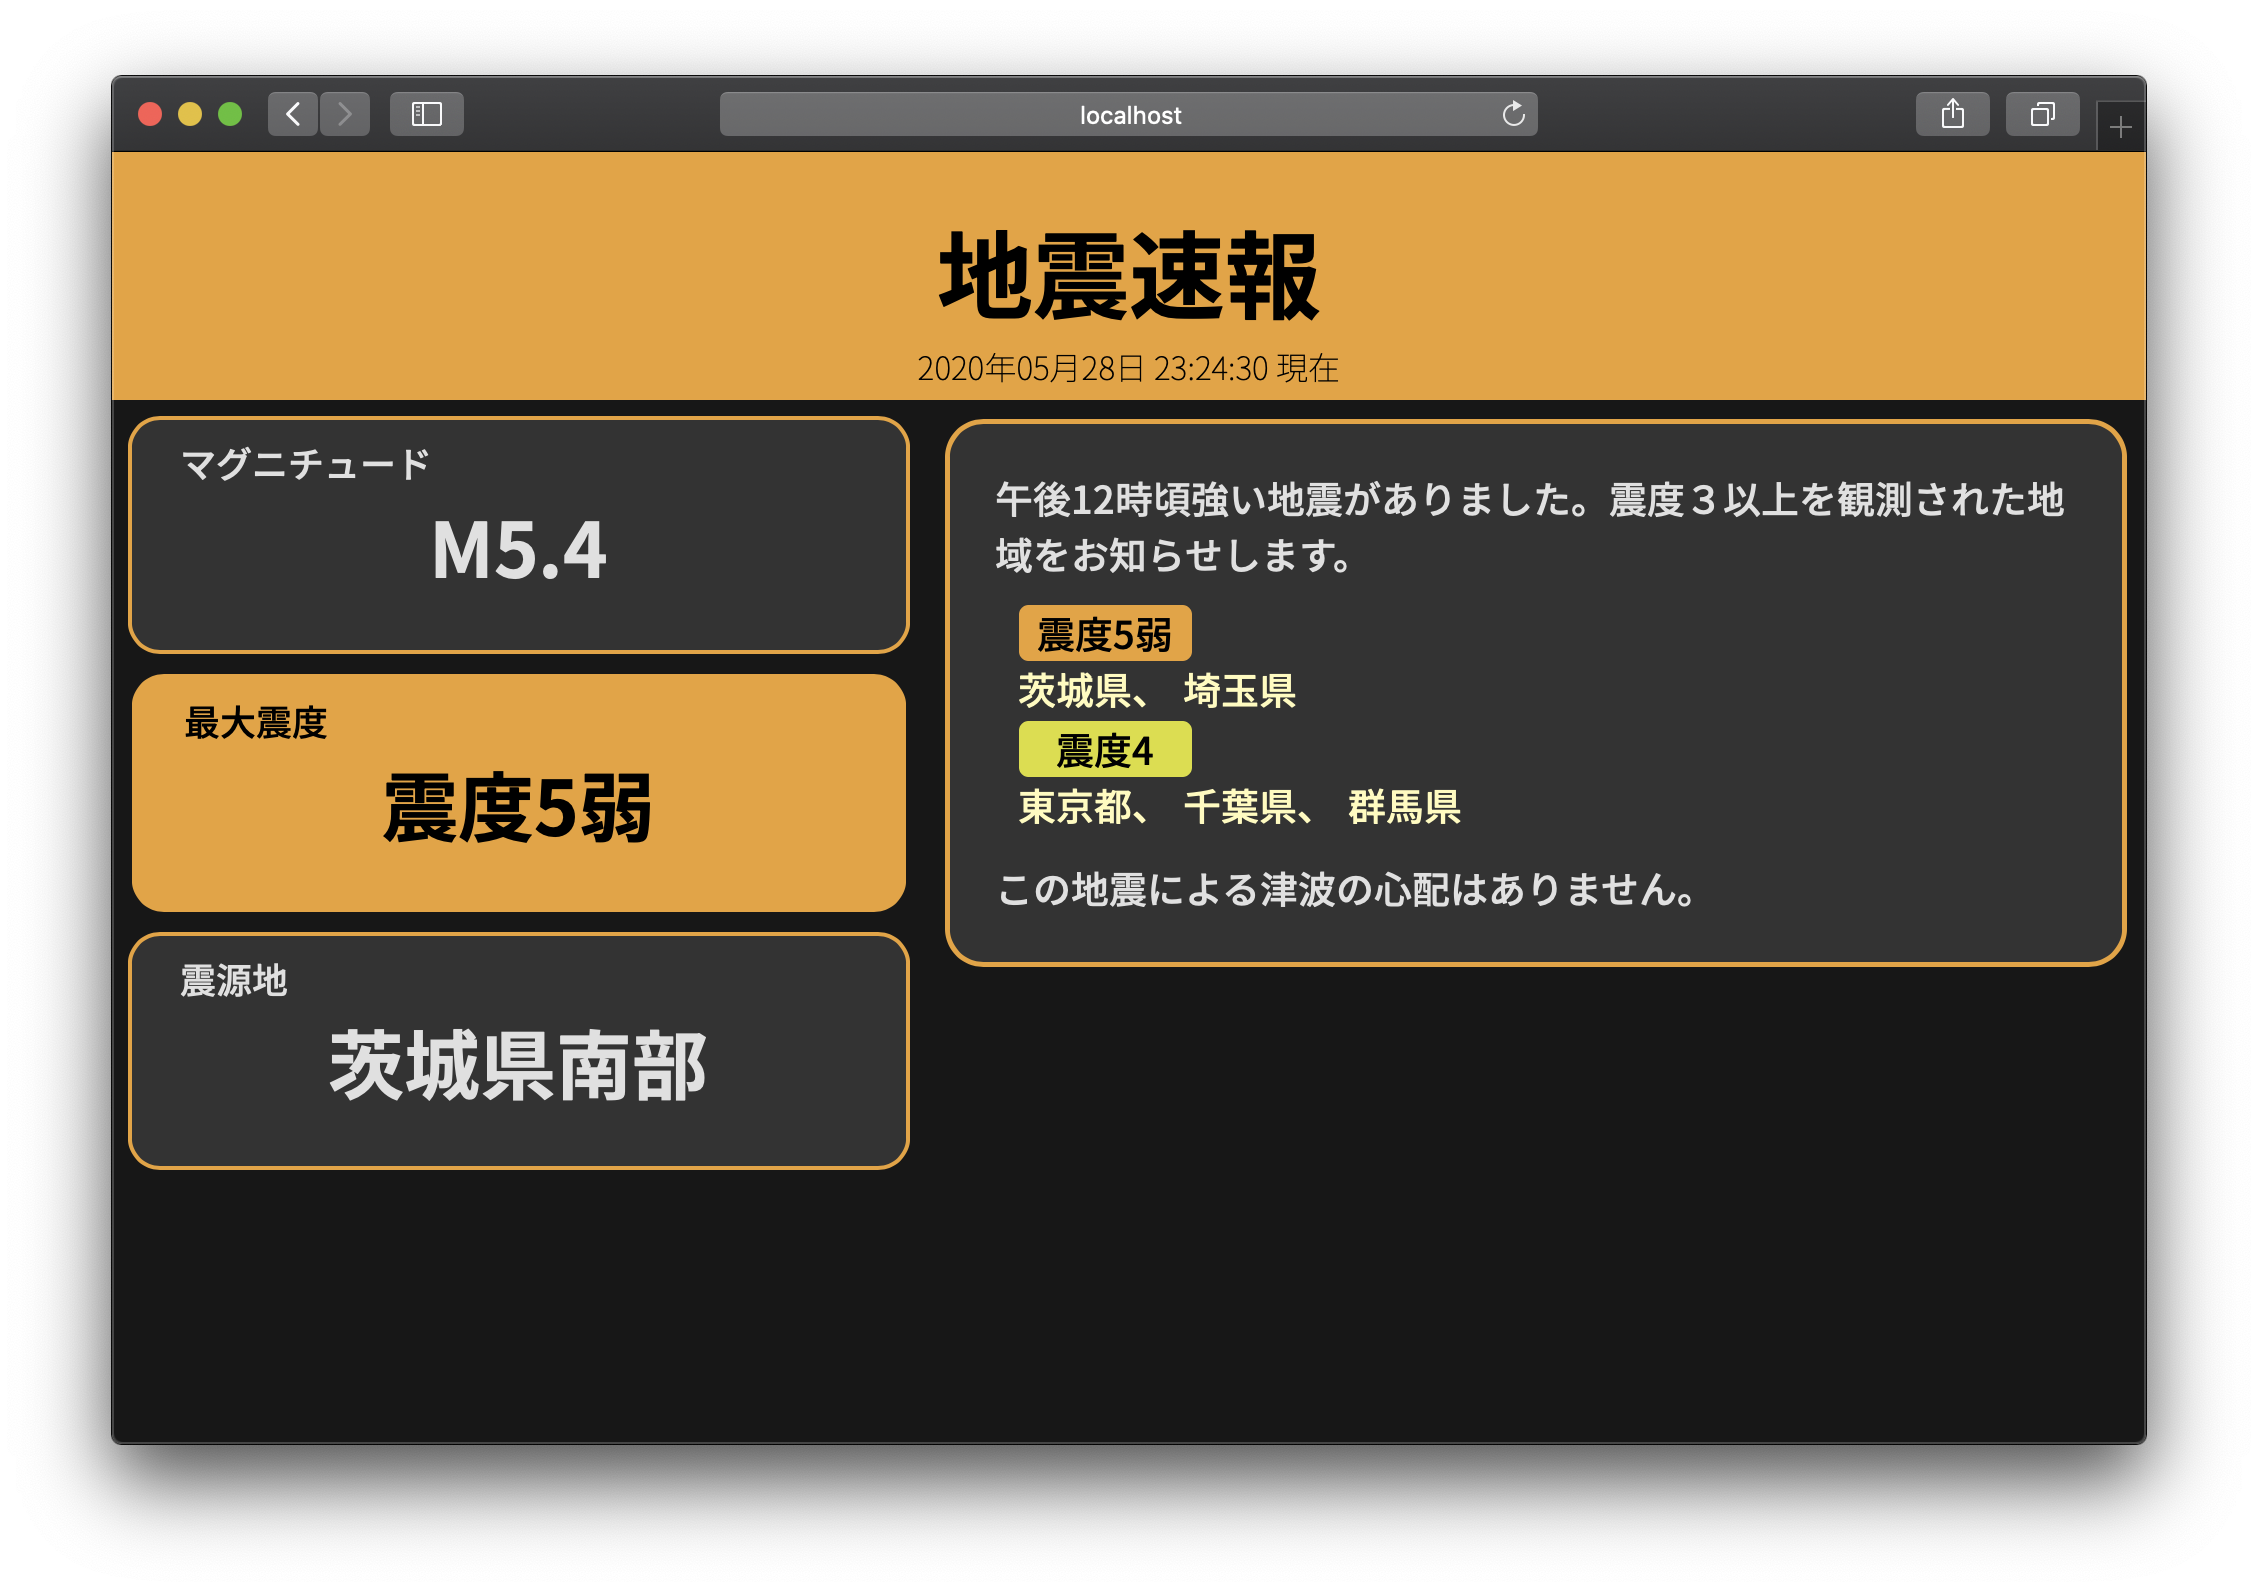
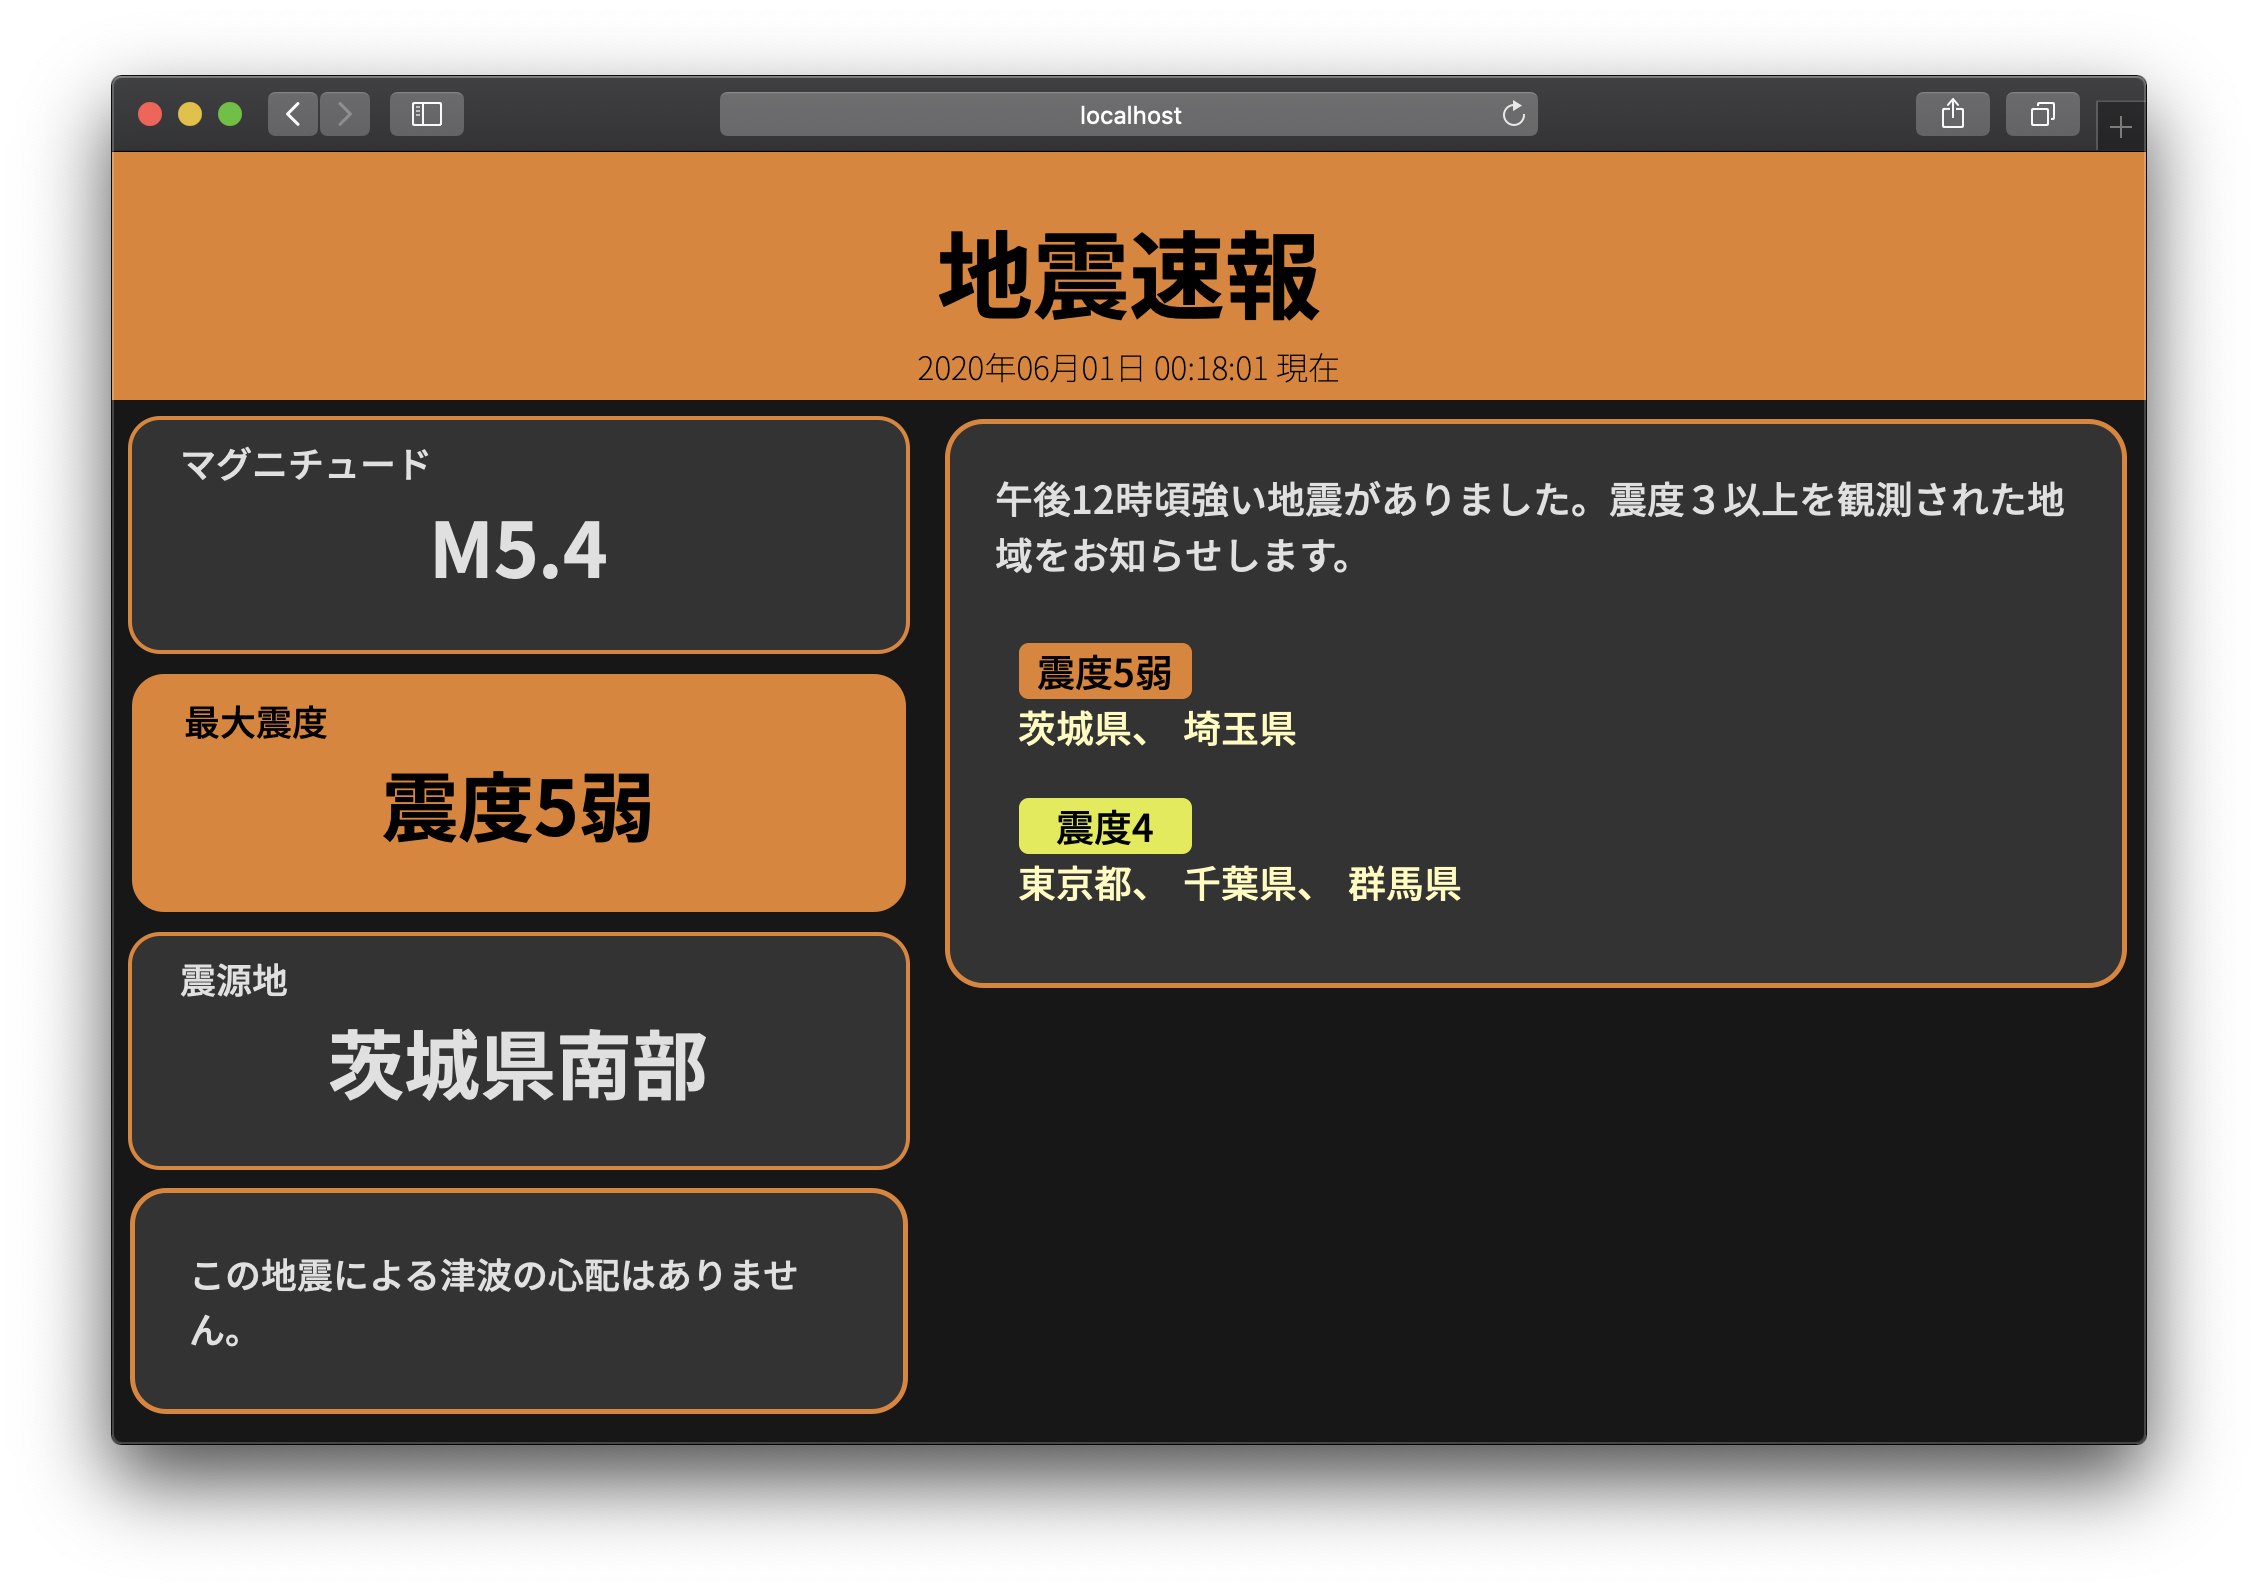
change color

Changed region(s): [[0.031, 0.0923, 0.961, 0.277], [0.031, 0.3693, 0.961, 0.6464], [0.031, 0.7079, 0.403, 0.8926]]

diff --git a/src/static/css/style.css b/src/static/css/style.css
@@ -128,47 +128,47 @@ header {
   */
 
 .fill.class-0, .震度0, .震度０ {
-    background-color: #e1e2e3;
+    background-color: #d9d9d9;
     color: black;
 }
 
 .fill.class-1, .震度1, .震度１ {
-    background-color: #56a0d1;
-    color: black;
-}
-
-.fill.class-2, .震度2, .震度２ {
-    background-color: #204eba;
+    background-color: #2d1fcc;
     color: #e0e0e0;
 }
 
+.fill.class-2, .震度2, .震度２ {
+    background-color: #3b93db;
+    color: black;
+}
+
 .fill.class-3, .震度3, .震度３ {
-    background-color: #d6e673;
+    background-color: #67e071;
 }
 
 .fill.class-4, .震度4, .震度４ {
-    background-color: #dbde28;
+    background-color: #e2eb38;
 }
 
 .fill.class-5, .震度5弱, .震度５弱 {
-    background-color: #eba22d;
+    background-color: #e38227;
 }
 
 .fill.class-55, .震度5強, .震度５強 {
-    background-color: #eba22d;
+    background-color: #e38227;
 }
 .fill.class-6, .震度6弱, .震度６弱 {
-    background-color: #e62929;
+    background-color: #e81c2d;
     color: #e0e0e0;
 }
 
 .fill.class-66, .震度6強, .震度６強 {
-    background-color: #e62929;
+    background-color: #e81c2d;
     color: #e0e0e0;
 }
 
 .fill.class-7, .震度7, .震度７ {
-    background-color: #a81d5b;
+    background-color: #db1d95;
     color: #e0e0e0;
 }
 
@@ -182,42 +182,42 @@ header {
 */
 
 div.class-0 {
-    border: solid 0.15em #e1e2e3;
+    border: solid 0.15em #d9d9d9;
 }
 
 div.class-1 {
-   border: solid 0.15em #56a0d1;
+   border: solid 0.15em #2d1fcc;
 }
 
 div.class-2 {
-   border: solid 0.15em #204eba;
+   border: solid 0.15em #3b93db;
 }
 
 div.class-3 {
-   border: solid 0.15em #d6e673;
+   border: solid 0.15em #67e071;
 }
 
 div.class-4 {
-   border: solid 0.15em #dbde28;
+   border: solid 0.15em #e2eb38;
 }
 
 div.class-5 {
-   border: solid 0.15em #eba22d;
+   border: solid 0.15em #e38227;
 }
 
 div.class-55 {
-   border: solid 0.15em #eba22d;
+   border: solid 0.15em #e38227;
 }
 div.class-6 {
-   border: solid 0.15em #e62929;
+   border: solid 0.15em #e81c2d;
 }
 
 div.class-66 {
-   border: solid 0.15em #e62929;
+   border: solid 0.15em #e81c2d;
 }
 
 div.class-7 {
-   border: solid 0.15em #a81d5b;
+   border: solid 0.15em #db1d95;
 }
 
 div.none {

diff --git a/README.md b/README.md
@@ -9,7 +9,7 @@
 
 ## tl;dr
 
-- URLクエリパラメータに入力した内容にテンプレートを適用させます。
+- URLクエリパラメーターに、入力した内容にテンプレートを適用させます。
 - Seleniumなどで画面キャプチャをすると簡単に画像として保存できます。
 
 ## 💻使い方
@@ -37,7 +37,7 @@
 
 デフォルトURL: `http://localhost:5000/template`
 
-### 📒クエリパラメータの説明
+### 📒クエリパラメーターの説明
 
 例: `http://localhost:5000/template?ti=震源・震度に関する情報&areas={'震度４': ['松島市'],'震度３':['一関市', '仙台宮城野区', '若林区', '仙台泉区', '石巻市', '白石市', '名取市', '角田市', '岩沼市', '登米市']}&exp=['１８日１２時００分ころ、地震がありました。', 'この地震による津波の心配はありません。']&max_si=4&epi=宮城県沖&mag=5.2`
 
@@ -71,8 +71,8 @@
 
 - `exp`
   - 説明。2つ以上必要です。
-  - 最初の１つ目は右のトップに表示されます。
-  - 2個目以上は左側に要素別にBoxで表示されます。
+  - 最初の1つ目は右のトップに表示されます。
+  - 2個目以上は左側に、要素別にBoxで表示されます。
 
     ```json
     [
@@ -96,16 +96,16 @@
 
 | 震度  |                                    色                                     |
 | :---: | :-----------------------------------------------------------------------: |
-|   0   | ![#e1e2e3](https://via.placeholder.com/15/e1e2e3/000000?text=+) `#e1e2e3` |
-|   1   | ![#56a0d1](https://via.placeholder.com/15/56a0d1/000000?text=+) `#56a0d1` |
-|   2   | ![#204eba](https://via.placeholder.com/15/204eba/000000?text=+) `#204eba` |
-|   3   | ![#d6e673](https://via.placeholder.com/15/d6e673/000000?text=+) `#d6e673` |
-|   4   | ![#dbde28](https://via.placeholder.com/15/dbde28/000000?text=+) `#dbde28` |
-|  5-   | ![#eba22d](https://via.placeholder.com/15/eba22d/000000?text=+) `#eba22d` |
-|  5+   | ![#eba22d](https://via.placeholder.com/15/eba22d/000000?text=+) `#eba22d` |
-|  6-   | ![#e62929](https://via.placeholder.com/15/e62929/000000?text=+) `#e62929` |
-|  6+   | ![#e62929](https://via.placeholder.com/15/e62929/000000?text=+) `#e62929` |
-|   7   | ![#a81d5b](https://via.placeholder.com/15/a81d5b/000000?text=+) `#a81d5b` |
+|   0   | ![#e1e2e3](https://via.placeholder.com/15/d9d9d9/000000?text=+) `#d9d9d9` |
+|   1   | ![#56a0d1](https://via.placeholder.com/15/2d1fcc/000000?text=+) `#2d1fcc` |
+|   2   | ![#204eba](https://via.placeholder.com/15/3b93db/000000?text=+) `#3b93db` |
+|   3   | ![#d6e673](https://via.placeholder.com/15/67e071/000000?text=+) `#67e071` |
+|   4   | ![#dbde28](https://via.placeholder.com/15/e2eb38/000000?text=+) `#e2eb38` |
+|  5-   | ![#eba22d](https://via.placeholder.com/15/e38227/000000?text=+) `#e38227` |
+|  5+   | ![#eba22d](https://via.placeholder.com/15/e38227/000000?text=+) `#e38227` |
+|  6-   | ![#e62929](https://via.placeholder.com/15/e81c2d/000000?text=+) `#e81c2d` |
+|  6+   | ![#e62929](https://via.placeholder.com/15/e81c2d/000000?text=+) `#e81c2d` |
+|   7   | ![#a81d5b](https://via.placeholder.com/15/e81c2d/000000?text=+) `#e81c2d` |
 | None  | ![#000000](https://via.placeholder.com/15/000000/000000?text=+) `#000000` |
 
 ### ⚖ライセンス
